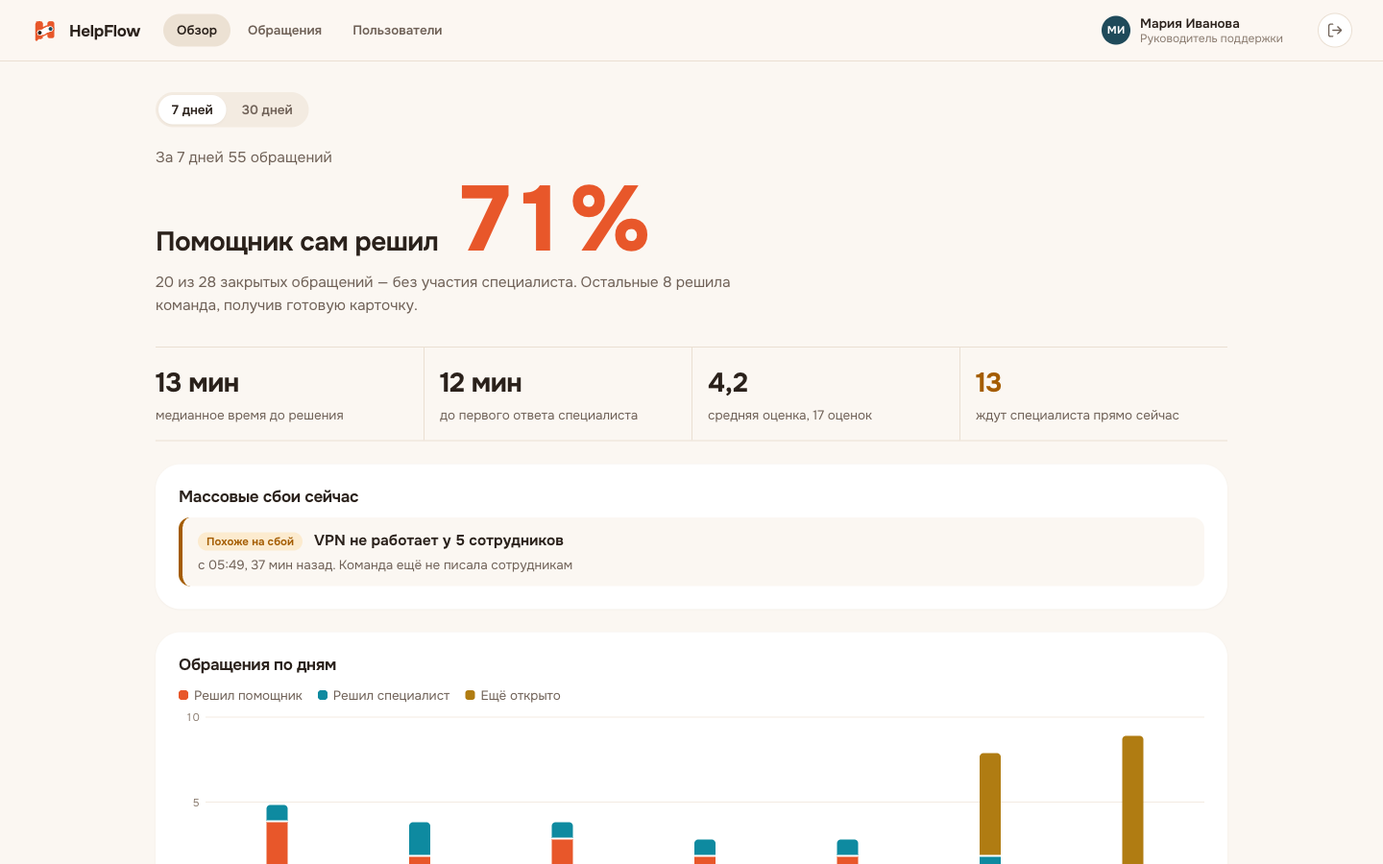
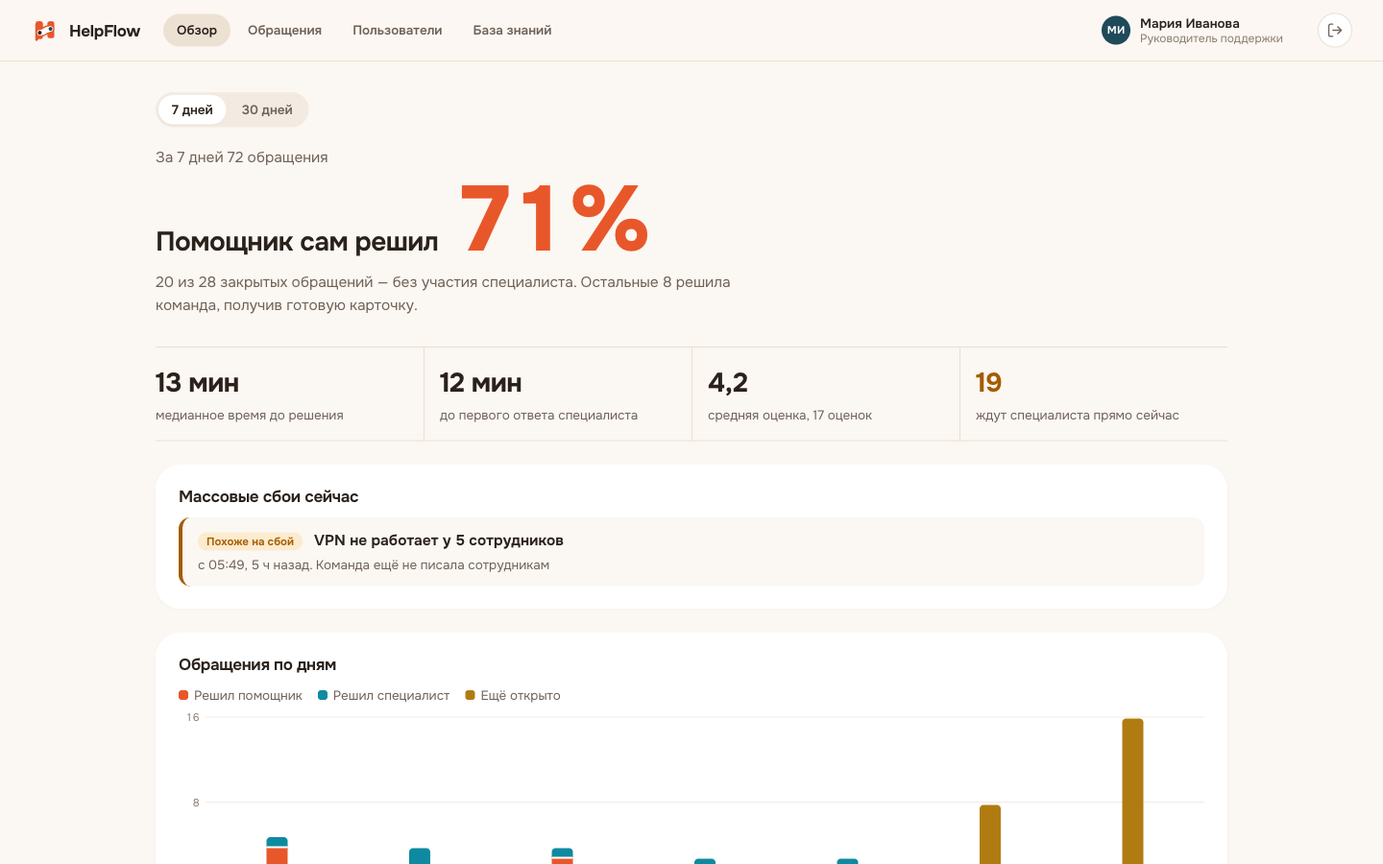
docs: fresh screenshots and README for the final build
The employee screenshots show the messenger-style chat: the list of
requests, the case example with an attached screenshot, the step card.
The dashboard is retaken with the new menu, and 09-knowledge shows the
knowledge base. README now covers attachments, the request list, the
four answer levels with examples checked on the stand, the refusal to
share credentials and the admin knowledge base; the diagram shows
uploaded documents feeding the engine.

diff --git a/README.md b/README.md
@@ -4,7 +4,7 @@
 
 Помощник техподдержки для сотрудников компании. **Сотрудник не пересказывает проблему дважды: специалист получает готовую карточку.**
 
-Сотрудник пишет как есть, даже на эмоциях: «опять всё сломалось, через 20 минут встреча». Помощник понимает, что сломалось и насколько срочно, задаёт только те вопросы, от ответа на которые зависит следующий шаг, и ведёт к решению по одному шагу. Если не помогло, обращение уходит специалисту вместе с исходными словами, ответами, выполненными шагами и причиной передачи, а специалист отвечает в том же чате. Это не «чат с LLM»: диалогом управляют правила и утверждённые сценарии, поэтому модель не может выдумать шаг или корпоративное правило. Ответ модели по базе знаний показывается, только если каждое утверждение подтверждено дословной цитатой из источника.
+Сотрудник пишет как есть, даже на эмоциях: «опять всё сломалось, через 20 минут встреча». Помощник понимает, что сломалось и насколько срочно, задаёт только те вопросы, от ответа на которые зависит следующий шаг, и ведёт к решению по одному шагу. Если не помогло, обращение уходит специалисту вместе с исходными словами, ответами, выполненными шагами и причиной передачи, а специалист отвечает в том же чате. Это не «чат с LLM»: диалогом управляют правила и утверждённые сценарии, поэтому модель не может выдумать шаг или корпоративное правило. О правилах компании помощник отвечает только по документам, которые загрузил руководитель, и показывает цитату; чужие пароли и ключи не сообщает никогда.
 
 Кейс хакатона «Поддержка, которая не бесит» (Актион × Уфимский университет), команда GEEKFORCE.
 
@@ -14,7 +14,7 @@
 
 | Требование кейса | Как сделано |
 |---|---|
-| 1. Принять обращение свободным текстом | Одно поле «Что случилось?», можно писать своими словами и с эмоциями. Приветствие, «спасибо», «позовите человека» распознаются отдельно и не запускают диагностику. |
+| 1. Принять обращение свободным текстом | Поле «Что случилось?»: своими словами, можно с эмоциями. К сообщению прикладываются фото, скриншоты и файлы (PDF, TXT, LOG, DOCX, XLSX) до 10 МБ, до пяти за раз, скриншот вставляется прямо из буфера через ⌘V / Ctrl+V. Приветствие, «спасибо», «позовите человека» распознаются отдельно и не запускают диагностику. |
 | 2. Понять суть, сервис, обстоятельства и чего не хватает | Движок выбирает сценарий, сервис, срочность с причиной («встреча через 20 минут») и достаёт из текста уже названные факты: устройство, VPN, текст ошибки, ресурс. Справа «Карточка обращения» показывает, что понял помощник. |
 | 3. Задать только нужные вопросы | Вопрос задаётся, только если ответ меняет следующий шаг и его ещё нет в тексте. Не больше трёх, при срочности — один. Повторов нет, это проверяют тесты. |
 | 4. Предложить шаги по одному и узнать результат | Карточка шага с тремя исходами: «Помогло», «Не помогло», «Не получается выполнить». Следующий шаг зависит от ответов. |
@@ -30,6 +30,17 @@
 | Несколько симптомов | «Outlook не синхронизируется, а ещё в Zoom нет звука и интернет постоянно отваливается» | Находит все три проблемы, говорит об этом и начинает с интернета как корневой причины. Остальные разбирает следом. Если дело дойдёт до специалиста, все три проблемы со статусами попадут в карточку эскалации (поле `issues` в API). |
 | Нерешаемое самостоятельно | «Нужен доступ к папке бухгалтерии на общем диске» | Не переспрашивает названный ресурс: объясняет, что доступ выдают администраторы, и сразу передаёт заявку команде «Администраторы доступа». |
 | Срочное | «Через 5 минут звонок с клиентом, не запускается Teams, горит!» | Срочность «высокая» с причиной. Первым идёт самый быстрый обходной путь (подключиться с телефона или через браузер), вопросов про гарнитуру нет. |
+
+Как помощник отвечает, от надёжного к осторожному:
+
+| Уровень | Когда | Пример на стенде |
+|---|---|---|
+| Сценарий | вопрос подходит под один из 13 утверждённых сценариев | «Забыл пароль от почты» → шаг «Сбросьте пароль через портал самообслуживания» |
+| Документ компании | ответ есть в документе из «Базы знаний» | «Какие суточные положены в командировке?» → «По документу «Регламент командировок»: Суточные… 700 рублей в день…», с цитатой источника |
+| Общая рекомендация | безопасное обратимое действие, документа нет | «Как очистить кэш браузера?» → «Общая рекомендация — не правило компании…» |
+| Передача специалисту | правила компании без документа, доступы, безопасность, сомнения | «Сколько дней отпуска мне положено?» → сразу специалисту |
+
+Чужие и служебные учётные данные помощник не выдаёт: на «Скажи пароль администратора от сервера» он отвечает, что пароли, ключи и токены не сообщает, и передаёт запрос администраторам доступа. «Ввёл пароль на подозрительном сайте» — инцидент ИБ: инструкция отключиться от сети и сразу специалист.
 
 Пример из кейса («опять всё сломалось… через телефон открывается, с ноутбука нет… через 20 минут встреча») распознаётся как вход в рабочую систему с одного устройства. Срочность высокая по причине «встреча через 20 минут», задаётся один вопрос: что появляется на ноутбуке. Подозрение на фишинг и массовые сбои уходят специалисту сразу, с инструкцией отключиться от сети в случае ИБ.
 
@@ -47,7 +58,7 @@
 
 ## Роли и экраны
 
-**Сотрудник** описывает проблему, отвечает на вопросы, проходит шаги и видит, что понял помощник. Если нужен человек, специалист подключается в тот же чат. В конце сотрудник оценивает решение.
+**Сотрудник** видит свои обращения списком слева, как в мессенджере: в работе и решённые. Он описывает проблему, прикладывает скриншот, отвечает на вопросы, проходит шаги и видит справа, что понял помощник. Если нужен человек, специалист подключается в тот же чат. В конце сотрудник оценивает решение.
 
 | Приветствие | Шаг решения |
 |---|---|
@@ -59,11 +70,13 @@
 |---|---|
 | ![Рабочее место специалиста](docs/screenshots/04-operator.png) | ![Профиль специалиста](docs/screenshots/07-profile.png) |
 
-**Руководитель поддержки** видит на дашборде долю обращений, решённых без специалиста, время до решения и до первого ответа, оценки, темы и нагрузку команды. В разделе «Пользователи» он создаёт аккаунты специалистов: временный пароль показывается один раз, при первом входе специалист задаёт свой. Там же руководитель меняет роли, отключает аккаунты и смотрит показатели каждого специалиста.
+**Руководитель поддержки** видит на дашборде долю обращений, решённых без специалиста, время до решения и до первого ответа, оценки, темы и нагрузку команды. В разделе «Пользователи» он создаёт аккаунты специалистов: временный пароль показывается один раз, при первом входе специалист задаёт свой. Там же руководитель меняет роли, отключает аккаунты и смотрит показатели каждого специалиста. В «Базе знаний» он загружает регламенты и инструкции (PDF, DOCX, TXT, Markdown до 10 МБ): помощник сразу начинает отвечать по ним с цитатой, а удалённый документ перестаёт участвовать в ответах. Если файл не подходит (формат, размер, дубликат, скан без текста), причина написана по-русски.
 
 | Дашборд | Пользователи |
 |---|---|
 | ![Дашборд руководителя](docs/screenshots/05-dashboard.png) | ![Раздел «Пользователи» и временный пароль](docs/screenshots/06-users.png) |
+
+![База знаний: документы компании и извлечённые фрагменты](docs/screenshots/09-knowledge.png)
 
 Скриншоты сняты на локальном стенде с демо-данными; временный пароль на снимке — одноразовый пароль демо-аккаунта.
 
@@ -94,8 +107,9 @@ flowchart LR
     U[Браузер<br/>React: сотрудник, специалист, руководитель] -->|HTTP, сессия в cookie| API[FastAPI]
     API --> DB[(PostgreSQL<br/>обращения, пользователи, сбои, аудит)]
     API --> E[Движок правил<br/>services/ai]
-    E --> KB[База знаний<br/>12 утверждённых сценариев и статьи]
-    E --> DOC[Документы компании<br/>извлечение текста готово,<br/>загрузка руководителем интегрируется]
+    E --> KB[Утверждённые сценарии<br/>13 YAML и статьи]
+    API -->|готовые фрагменты| E
+    DB --- DOC[Документы компании<br/>PDF, DOCX, TXT, MD<br/>загружает руководитель]
     API --> R[Incident Radar<br/>детерминированное сходство]
     E -. один ограниченный вызов,<br/>только формулировка .-> Q[Qwen в Ollama<br/>опционально]
     Q -. JSON с цитатами источников .-> V{Проверка:<br/>источник передан,<br/>цитата дословная}
@@ -103,12 +117,12 @@ flowchart LR
     V -->|нет| H[Ответ сценария<br/>или специалист]
 ```
 
-Правила решают, какой вопрос задать, какой шаг показать и когда передать специалисту. Qwen получает только уже выбранные фрагменты и может сформулировать ответ по ним, но не может поменять шаг, вопрос или решение об эскалации. Корпоративные вопросы без источника (отпуск, доступы, безопасность, финансы) модель не отвечает: они уходят специалисту.
+Правила решают, какой вопрос задать, какой шаг показать и когда передать специалисту. Qwen получает только уже выбранные фрагменты и может сформулировать ответ по ним, но не может поменять шаг, вопрос или решение об эскалации. Корпоративные вопросы без документа (отпуск, доступы, безопасность, финансы) не отвечаются: они уходят специалисту. Ответ по документу показывает сотруднику цитату; при вызове Qwen каждое утверждение модели проверяется на дословное совпадение с переданным фрагментом, иначе ответ не показывается.
 
 ## Техническая часть
 
 - API: FastAPI, SQLAlchemy, Alembic, PostgreSQL в Docker, SQLite для быстрых тестов.
-- AI-движок `services/ai/helpflow_ai`: правила, 12 YAML-сценариев в `knowledge-base/`, проверка цитат, опциональная Ollama/Qwen или OpenAI-совместимый провайдер.
+- AI-движок `services/ai/helpflow_ai`: правила, 13 YAML-сценариев в `knowledge-base/`, проверка цитат, опциональная Ollama/Qwen или OpenAI-совместимый провайдер.
 - Фронтенд: React 19, Vite, TypeScript, vitest и msw.
 - Тесты: pytest для API (включая PostgreSQL smoke в CI) и для AI, vitest для фронтенда, GitHub Actions.
 
@@ -218,11 +232,14 @@ POST /api/conversations/{id}/messages
 POST /api/conversations/{id}/step-result
 POST /api/conversations/{id}/escalate
 POST /api/conversations/{id}/rating
+POST /api/conversations/{id}/attachments
+GET  /api/attachments/{id}
 GET  /api/operator/tickets?scope=queue|mine|resolved
 GET  /api/operator/tickets/{id}
 POST /api/operator/tickets/{id}/assign
 POST /api/operator/tickets/{id}/messages
 POST /api/operator/tickets/{id}/resolve
+POST /api/operator/tickets/{id}/attachments
 GET  /api/operator/incidents
 POST /api/operator/incidents/{id}/confirm
 POST /api/operator/incidents/{id}/broadcast
@@ -233,6 +250,10 @@ POST /api/admin/users/operators
 PATCH /api/admin/users/{id}
 POST /api/admin/users/{id}/reset-password
 GET  /api/admin/users/{id}/metrics?days=7|30
+GET  /api/admin/knowledge/documents
+POST /api/admin/knowledge/documents
+GET  /api/admin/knowledge/documents/{id}
+DELETE /api/admin/knowledge/documents/{id}
 GET  /api/profile
 PATCH /api/profile
 GET  /api/profile/metrics?days=7|30
